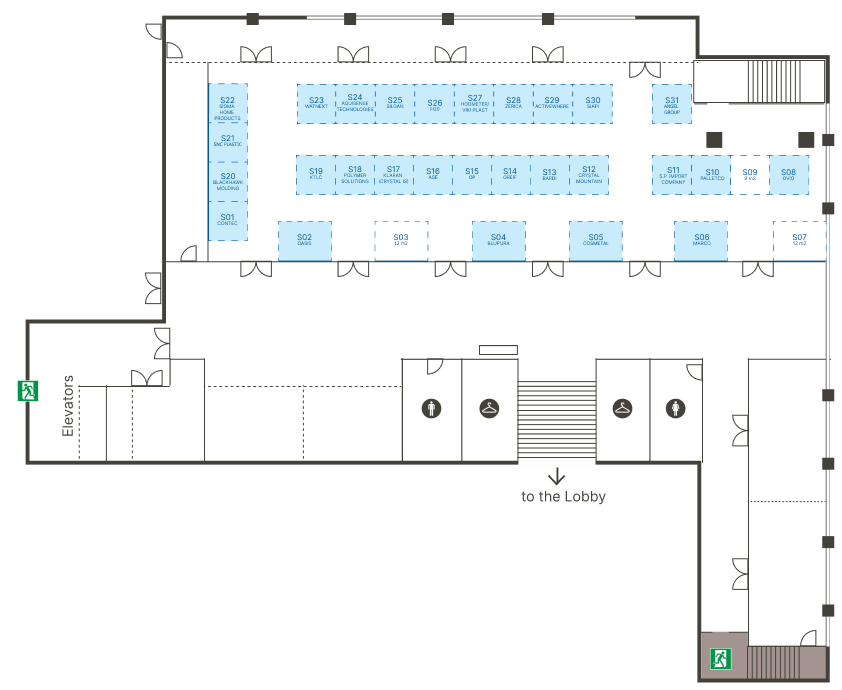
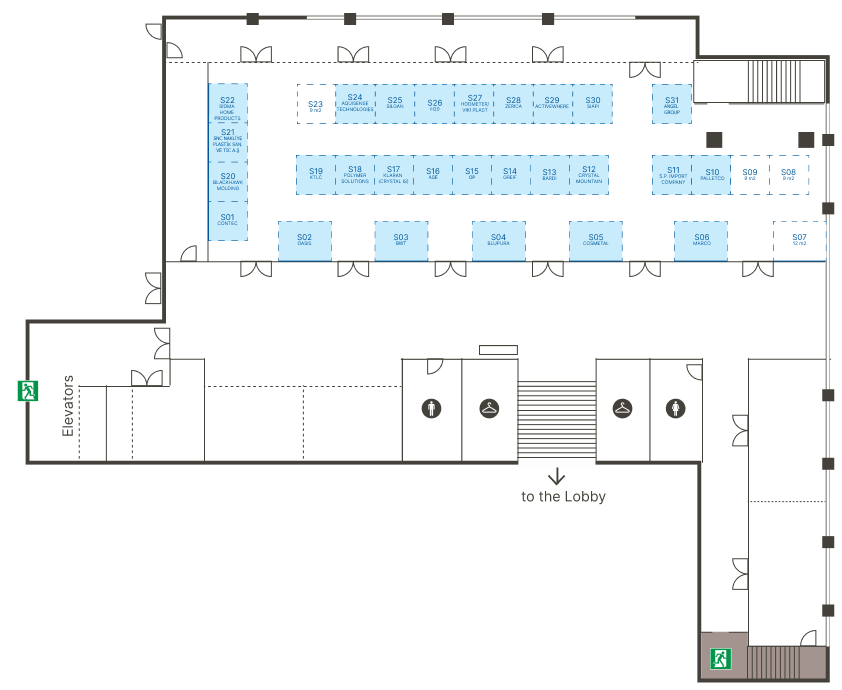
zmiany 9.06

diff --git a/src/components/Navbar.js b/src/components/Navbar.js
@@ -2,6 +2,7 @@ import React from "react";
 import { Link } from "gatsby";
 import logo from "../img/we-logo.png";
 import Mdv_logo from "../img/MDV_Logo.png";
+import food_logo from "../img/food-logo.png";
 import AW_header_logo from "../img/AW-header-logo.png";
 
 import phone from "../img/phone.svg";
@@ -44,7 +45,7 @@ const Navbar = class extends React.Component {
         aria-label="main-navigation"
       >
         <div className="container">
-          <div className="flex w-full justify-between py-6 gap-5 md:gap-0">
+          <div className="flex w-full justify-center py-6 gap-5 md:gap-0 relative">
             <div>
               <a
                 href="https://www.vienna.convention.at/en"
@@ -58,7 +59,20 @@ const Navbar = class extends React.Component {
                 />
               </a>
             </div>
-            <div className="navbar-brand">
+            <div className="mr-auto">
+              <a
+                href="https://www.foodbev.com/"
+                title="FoodBev Media"
+                target="_blank"
+              >
+                <img
+                  src={food_logo}
+                  alt="FoodBev Media"
+                  style={{ width: "60px" }}
+                />
+              </a>
+            </div>
+            <div className="navbar-brand md:absolute md:top-6 md:left-auto z-20">
               <Link to="/" className="" title="Logo">
                 <img
                   src={logo}
@@ -80,7 +94,7 @@ const Navbar = class extends React.Component {
                 <span />
               </div>
             </div>
-            <Link to="/aqua-awards" className="hidden md:block">
+            <Link to="/aqua-awards" className="hidden md:block ml-auto">
               <img
                 src={AW_header_logo}
                 alt="Aqua Awards 2023"

diff --git a/src/templates/trade-fair.js b/src/templates/trade-fair.js
@@ -341,7 +341,7 @@ export const TradeFairTemplate = ({ title, tradefair, fees }) => {
                     <select name="stand-no" required>
                       <option value="S09 9m2">S09 9m&sup2;</option>
                       <option value="S07 12m2">S07 12m&sup2;</option>
-                      <option value="S07 12m2">S03 12m&sup2;</option>
+                      <option value="S07 12m2">S23 9m&sup2;</option>
                     </select>
                     <svg
                       xmlns="http://www.w3.org/2000/svg"
